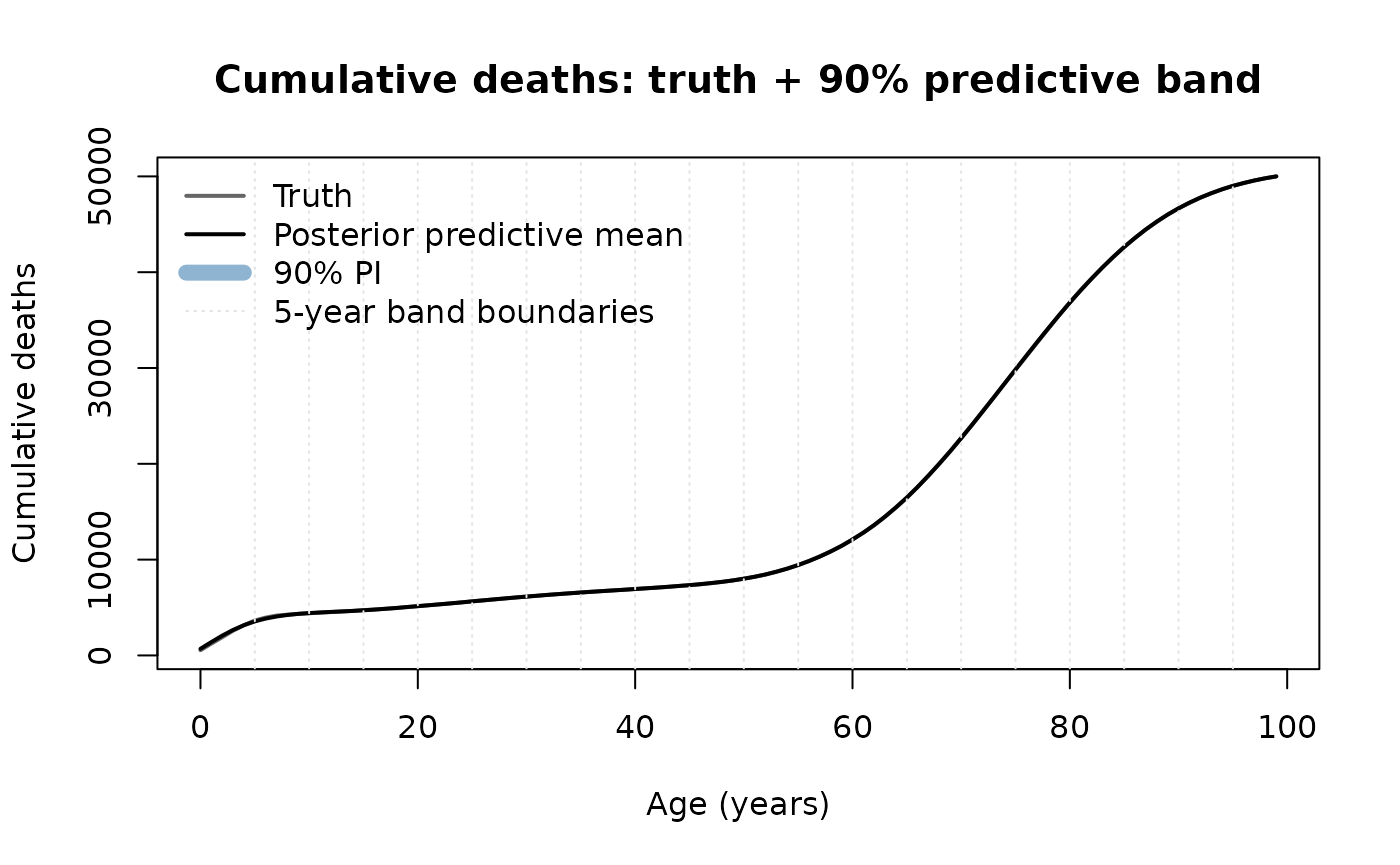
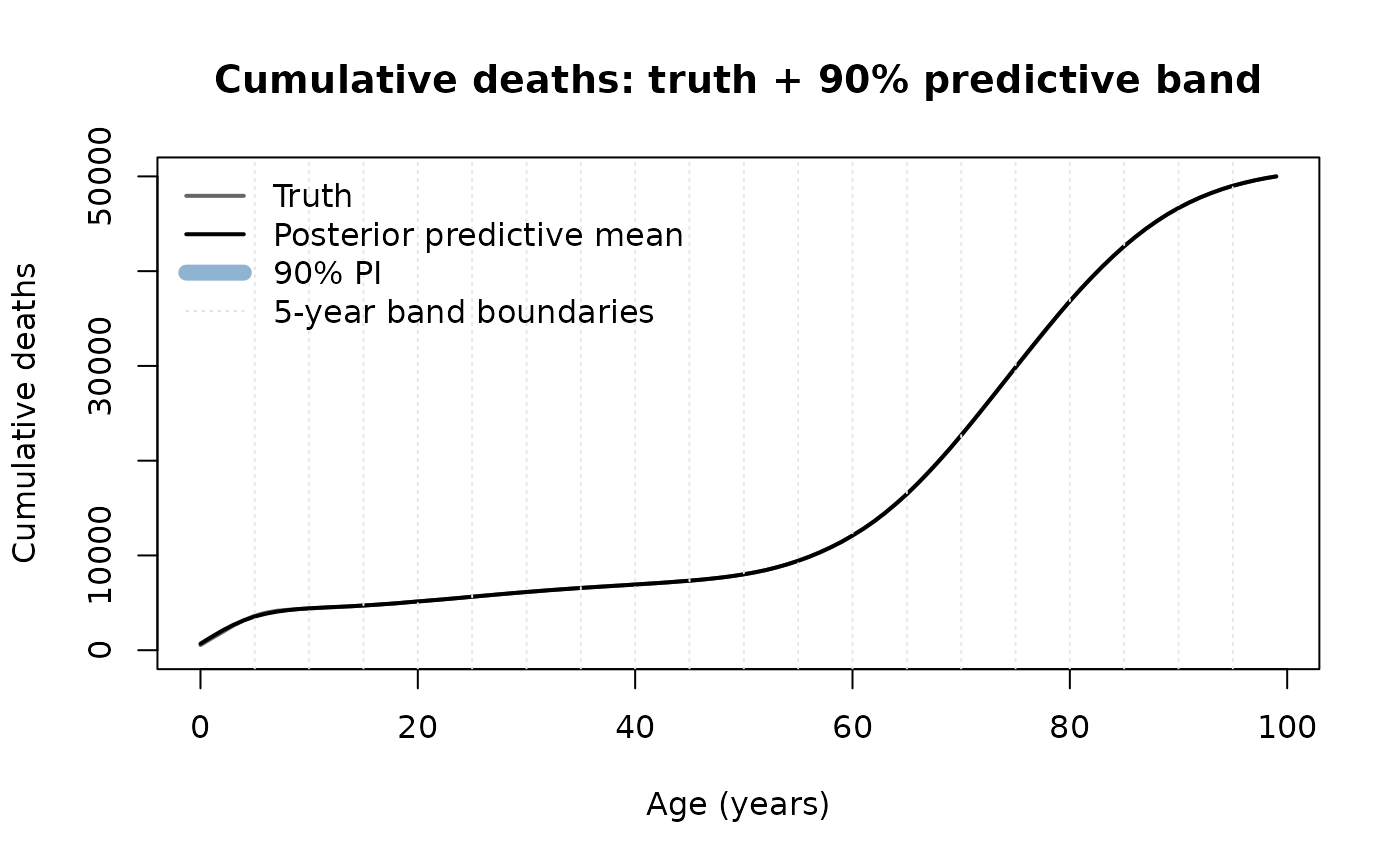
Deploying to gh-pages from @ ChristK/pclmbayes@b245e57ad6de947f5efc7373d117374a584f46ef 🚀

diff --git a/articles/comparison-with-ungroup.html b/articles/comparison-with-ungroup.html
@@ -326,9 +326,9 @@ truth, max absolute residual on the wide-bin totals, and runtime.</p>
 <span><span class="va">results</span></span>
 <span><span class="co">#&gt;           algorithm RMSE_yearly max_bin_residual elapsed_sec</span></span>
 <span><span class="co">#&gt; 1              pclm    44.79191     7.537445e+01       0.021</span></span>
-<span><span class="co">#&gt; 2 bpclm + calibrate    34.84219     4.547474e-13       0.311</span></span>
-<span><span class="co">#&gt; 3        pclm_exact    27.36794     1.818989e-12       0.027</span></span>
-<span><span class="co">#&gt; 4     ungroup::pclm    78.29337     1.392698e+00       0.114</span></span></code></pre></div>
+<span><span class="co">#&gt; 2 bpclm + calibrate    34.84219     4.547474e-13       0.306</span></span>
+<span><span class="co">#&gt; 3        pclm_exact    27.36794     1.818989e-12       0.026</span></span>
+<span><span class="co">#&gt; 4     ungroup::pclm    78.29337     1.392698e+00       0.113</span></span></code></pre></div>
 <p>The expected pattern:</p>
 <ul>
 <li>
@@ -356,7 +356,10 @@ for a 5-year band.</li>
 <h3 id="plot-the-four-point-estimates">Plot the four point estimates<a class="anchor" aria-label="anchor" href="#plot-the-four-point-estimates"></a>
 </h3>
 <div class="sourceCode" id="cb6"><pre class="downlit sourceCode r">
-<code class="sourceCode R"><span><span class="fu"><a href="https://rdrr.io/r/graphics/plot.default.html" class="external-link">plot</a></span><span class="op">(</span><span class="va">ages</span>, <span class="va">true_yearly</span>, type <span class="op">=</span> <span class="st">"h"</span>, col <span class="op">=</span> <span class="st">"grey70"</span>,</span>
+<code class="sourceCode R"><span><span class="va">ymax_s</span> <span class="op">&lt;-</span> <span class="fu"><a href="https://rdrr.io/r/base/Extremes.html" class="external-link">max</a></span><span class="op">(</span><span class="va">true_yearly</span>, <span class="va">yhat_exact</span>, <span class="va">yhat_pclm</span>, <span class="va">yhat_bpclm</span>,</span>
+<span>              <span class="kw">if</span> <span class="op">(</span><span class="va">have_ungroup</span><span class="op">)</span> <span class="va">ung_yearly</span><span class="op">)</span></span>
+<span><span class="fu"><a href="https://rdrr.io/r/graphics/plot.default.html" class="external-link">plot</a></span><span class="op">(</span><span class="va">ages</span>, <span class="va">true_yearly</span>, type <span class="op">=</span> <span class="st">"h"</span>, col <span class="op">=</span> <span class="st">"grey70"</span>,</span>
+<span>     ylim <span class="op">=</span> <span class="fu"><a href="https://rdrr.io/r/base/c.html" class="external-link">c</a></span><span class="op">(</span><span class="fl">0</span>, <span class="va">ymax_s</span><span class="op">)</span>,</span>
 <span>     xlab <span class="op">=</span> <span class="st">"Age (years)"</span>, ylab <span class="op">=</span> <span class="st">"Deaths"</span>,</span>
 <span>     main <span class="op">=</span> <span class="st">"Recovered single-year counts"</span><span class="op">)</span></span>
 <span><span class="fu"><a href="https://rdrr.io/r/graphics/lines.html" class="external-link">lines</a></span><span class="op">(</span><span class="va">ages</span>, <span class="va">yhat_exact</span>, col <span class="op">=</span> <span class="st">"black"</span>,     lwd <span class="op">=</span> <span class="fl">2</span><span class="op">)</span></span>
@@ -445,8 +448,11 @@ No ground truth — we visualise the recovered density.</p>
 <span><span class="va">ung_density_b</span> <span class="op">&lt;-</span> <span class="fu"><a href="https://rdrr.io/r/base/numeric.html" class="external-link">as.numeric</a></span><span class="op">(</span><span class="va">fit_b_ung</span><span class="op">$</span><span class="va">fitted</span><span class="op">)</span> <span class="op">/</span> <span class="fu"><a href="https://rdrr.io/r/base/sum.html" class="external-link">sum</a></span><span class="op">(</span><span class="va">fit_b_ung</span><span class="op">$</span><span class="va">fitted</span><span class="op">)</span></span></code></pre></div>
 <div class="sourceCode" id="cb10"><pre class="downlit sourceCode r">
 <code class="sourceCode R"><span><span class="va">mids_b</span> <span class="op">&lt;-</span> <span class="op">(</span><span class="fu"><a href="https://rdrr.io/r/utils/head.html" class="external-link">head</a></span><span class="op">(</span><span class="va">fit_b_pclm</span><span class="op">$</span><span class="va">grid</span>, <span class="op">-</span><span class="fl">1L</span><span class="op">)</span> <span class="op">+</span> <span class="fu"><a href="https://rdrr.io/r/utils/head.html" class="external-link">tail</a></span><span class="op">(</span><span class="va">fit_b_pclm</span><span class="op">$</span><span class="va">grid</span>, <span class="op">-</span><span class="fl">1L</span><span class="op">)</span><span class="op">)</span> <span class="op">/</span> <span class="fl">2</span></span>
+<span><span class="va">ymax_b</span> <span class="op">&lt;-</span> <span class="fu"><a href="https://rdrr.io/r/base/Extremes.html" class="external-link">max</a></span><span class="op">(</span><span class="va">fit_b_pclm</span><span class="op">$</span><span class="va">pi</span>, <span class="va">fit_b_exact</span><span class="op">$</span><span class="va">pi</span>, <span class="va">fit_b_bayes</span><span class="op">$</span><span class="va">pi</span>,</span>
+<span>              <span class="kw">if</span> <span class="op">(</span><span class="va">have_ungroup</span><span class="op">)</span> <span class="va">ung_density_b</span><span class="op">)</span></span>
 <span><span class="fu"><a href="https://rdrr.io/r/graphics/plot.default.html" class="external-link">plot</a></span><span class="op">(</span><span class="va">mids_b</span>, <span class="va">fit_b_pclm</span><span class="op">$</span><span class="va">pi</span>,  type <span class="op">=</span> <span class="st">"l"</span>, lwd <span class="op">=</span> <span class="fl">2</span>, lty <span class="op">=</span> <span class="fl">2</span>,</span>
 <span>     col <span class="op">=</span> <span class="st">"steelblue"</span>,</span>
+<span>     ylim <span class="op">=</span> <span class="fu"><a href="https://rdrr.io/r/base/c.html" class="external-link">c</a></span><span class="op">(</span><span class="fl">0</span>, <span class="va">ymax_b</span><span class="op">)</span>,</span>
 <span>     xlab <span class="op">=</span> <span class="st">"Blood-lead concentration (µg/dl)"</span>,</span>
 <span>     ylab <span class="op">=</span> <span class="st">"Density mass per fine cell"</span>,</span>
 <span>     main <span class="op">=</span> <span class="st">"bloodlead: density estimates"</span><span class="op">)</span></span>
@@ -541,8 +547,11 @@ absolute terms.</p>
 <span><span class="va">ung_density_t</span> <span class="op">&lt;-</span> <span class="fu"><a href="https://rdrr.io/r/base/numeric.html" class="external-link">as.numeric</a></span><span class="op">(</span><span class="va">fit_t_ung</span><span class="op">$</span><span class="va">fitted</span><span class="op">)</span> <span class="op">/</span> <span class="fu"><a href="https://rdrr.io/r/base/sum.html" class="external-link">sum</a></span><span class="op">(</span><span class="va">fit_t_ung</span><span class="op">$</span><span class="va">fitted</span><span class="op">)</span></span></code></pre></div>
 <div class="sourceCode" id="cb14"><pre class="downlit sourceCode r">
 <code class="sourceCode R"><span><span class="va">mids_t</span> <span class="op">&lt;-</span> <span class="op">(</span><span class="fu"><a href="https://rdrr.io/r/utils/head.html" class="external-link">head</a></span><span class="op">(</span><span class="va">fit_t_pclm</span><span class="op">$</span><span class="va">grid</span>, <span class="op">-</span><span class="fl">1L</span><span class="op">)</span> <span class="op">+</span> <span class="fu"><a href="https://rdrr.io/r/utils/head.html" class="external-link">tail</a></span><span class="op">(</span><span class="va">fit_t_pclm</span><span class="op">$</span><span class="va">grid</span>, <span class="op">-</span><span class="fl">1L</span><span class="op">)</span><span class="op">)</span> <span class="op">/</span> <span class="fl">2</span></span>
+<span><span class="va">ymax_t</span> <span class="op">&lt;-</span> <span class="fu"><a href="https://rdrr.io/r/base/Extremes.html" class="external-link">max</a></span><span class="op">(</span><span class="va">fit_t_pclm</span><span class="op">$</span><span class="va">pi</span>, <span class="va">fit_t_exact</span><span class="op">$</span><span class="va">pi</span>, <span class="va">fit_t_bayes</span><span class="op">$</span><span class="va">pi</span>,</span>
+<span>              <span class="kw">if</span> <span class="op">(</span><span class="va">have_ungroup</span><span class="op">)</span> <span class="va">ung_density_t</span><span class="op">)</span></span>
 <span><span class="fu"><a href="https://rdrr.io/r/graphics/plot.default.html" class="external-link">plot</a></span><span class="op">(</span><span class="va">mids_t</span>, <span class="va">fit_t_pclm</span><span class="op">$</span><span class="va">pi</span>,  type <span class="op">=</span> <span class="st">"l"</span>, lwd <span class="op">=</span> <span class="fl">2</span>, lty <span class="op">=</span> <span class="fl">2</span>,</span>
 <span>     col <span class="op">=</span> <span class="st">"steelblue"</span>,</span>
+<span>     ylim <span class="op">=</span> <span class="fu"><a href="https://rdrr.io/r/base/c.html" class="external-link">c</a></span><span class="op">(</span><span class="fl">0</span>, <span class="va">ymax_t</span><span class="op">)</span>,</span>
 <span>     xlab <span class="op">=</span> <span class="st">"Age (years)"</span>,</span>
 <span>     ylab <span class="op">=</span> <span class="st">"Density mass per single year"</span>,</span>
 <span>     main <span class="op">=</span> <span class="st">"tbdeaths1907: density estimates"</span><span class="op">)</span></span>

diff --git a/articles/pclmbayes-intro.html b/articles/pclmbayes-intro.html
@@ -483,7 +483,9 @@ cdf_mean  &lt;- colMeans(cdf_chain)
 cdf_lo    &lt;- apply(cdf_chain, 2L, quantile, probs = 0.05, names = FALSE)
 cdf_hi    &lt;- apply(cdf_chain, 2L, quantile, probs = 0.95, names = FALSE)
 
+ymax_cdf &lt;- max(cumsum(true_yearly), cdf_hi)
 plot(ages, cumsum(true_yearly), type = "l", col = "grey40", lwd = 2,
+     ylim = c(0, ymax_cdf),
      xlab = "Age (years)", ylab = "Cumulative deaths",
      main = "Cumulative deaths: truth + 90% predictive band")
 polygon(c(ages, rev(ages)), c(cdf_lo, rev(cdf_hi)),

diff --git a/articles/comparison-with-ungroup.md b/articles/comparison-with-ungroup.md
@@ -166,9 +166,9 @@ results <- data.frame(
 results
 #>           algorithm RMSE_yearly max_bin_residual elapsed_sec
 #> 1              pclm    44.79191     7.537445e+01       0.021
-#> 2 bpclm + calibrate    34.84219     4.547474e-13       0.311
-#> 3        pclm_exact    27.36794     1.818989e-12       0.027
-#> 4     ungroup::pclm    78.29337     1.392698e+00       0.114
+#> 2 bpclm + calibrate    34.84219     4.547474e-13       0.306
+#> 3        pclm_exact    27.36794     1.818989e-12       0.026
+#> 4     ungroup::pclm    78.29337     1.392698e+00       0.113
 ```
 
 The expected pattern:
@@ -193,7 +193,10 @@ The expected pattern:
 
 ``` r
 
+ymax_s <- max(true_yearly, yhat_exact, yhat_pclm, yhat_bpclm,
+              if (have_ungroup) ung_yearly)
 plot(ages, true_yearly, type = "h", col = "grey70",
+     ylim = c(0, ymax_s),
      xlab = "Age (years)", ylab = "Deaths",
      main = "Recovered single-year counts")
 lines(ages, yhat_exact, col = "black",     lwd = 2)
@@ -298,8 +301,11 @@ ung_density_b <- as.numeric(fit_b_ung$fitted) / sum(fit_b_ung$fitted)
 ``` r
 
 mids_b <- (head(fit_b_pclm$grid, -1L) + tail(fit_b_pclm$grid, -1L)) / 2
+ymax_b <- max(fit_b_pclm$pi, fit_b_exact$pi, fit_b_bayes$pi,
+              if (have_ungroup) ung_density_b)
 plot(mids_b, fit_b_pclm$pi,  type = "l", lwd = 2, lty = 2,
      col = "steelblue",
+     ylim = c(0, ymax_b),
      xlab = "Blood-lead concentration (µg/dl)",
      ylab = "Density mass per fine cell",
      main = "bloodlead: density estimates")
@@ -406,8 +412,11 @@ ung_density_t <- as.numeric(fit_t_ung$fitted) / sum(fit_t_ung$fitted)
 ``` r
 
 mids_t <- (head(fit_t_pclm$grid, -1L) + tail(fit_t_pclm$grid, -1L)) / 2
+ymax_t <- max(fit_t_pclm$pi, fit_t_exact$pi, fit_t_bayes$pi,
+              if (have_ungroup) ung_density_t)
 plot(mids_t, fit_t_pclm$pi,  type = "l", lwd = 2, lty = 2,
      col = "steelblue",
+     ylim = c(0, ymax_t),
      xlab = "Age (years)",
      ylab = "Density mass per single year",
      main = "tbdeaths1907: density estimates")

diff --git a/articles/pclmbayes-intro.md b/articles/pclmbayes-intro.md
@@ -420,7 +420,9 @@ true_yearly, col = “firebrick”, lwd = 1.5, lty = 2) par(op)
     cdf_lo    <- apply(cdf_chain, 2L, quantile, probs = 0.05, names = FALSE)
     cdf_hi    <- apply(cdf_chain, 2L, quantile, probs = 0.95, names = FALSE)
 
+    ymax_cdf <- max(cumsum(true_yearly), cdf_hi)
     plot(ages, cumsum(true_yearly), type = "l", col = "grey40", lwd = 2,
+         ylim = c(0, ymax_cdf),
          xlab = "Age (years)", ylab = "Cumulative deaths",
          main = "Cumulative deaths: truth + 90% predictive band")
     polygon(c(ages, rev(ages)), c(cdf_lo, rev(cdf_hi)),